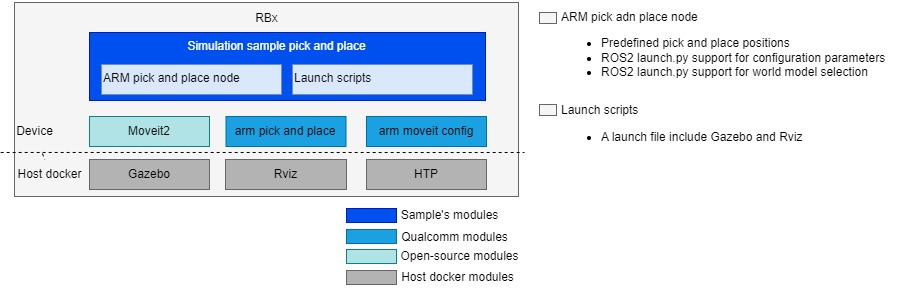
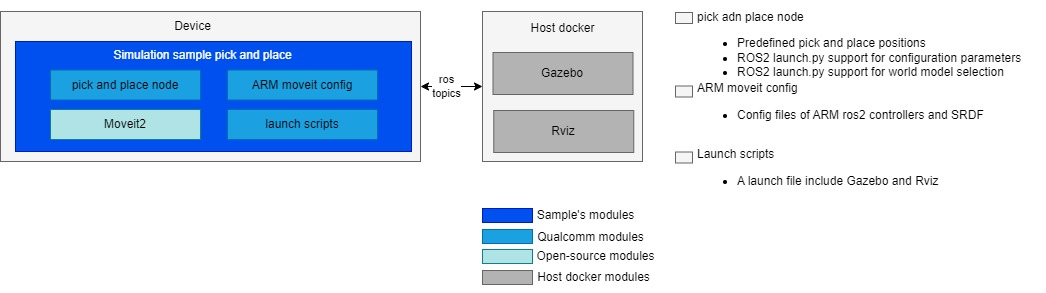
docs: update file architecture

diff --git a/robotics/simulation_sample_pick_and_place/qrb_ros_arm_pick_place/src/qrb_ros_arm_pick_place.cpp b/robotics/simulation_sample_pick_and_place/qrb_ros_arm_pick_place/src/qrb_ros_arm_pick_place.cpp
@@ -128,7 +128,7 @@ int main(int argc, char * argv[])
     return 1;
   }
  
-  // Step 3: Move to target joint angles (from the image)
+  // Step 3: Move to target joint angles
   RCLCPP_INFO(logger, "Step 3: Moving to target joint angles...");
   
   // Get joint names
@@ -138,7 +138,7 @@ int main(int argc, char * argv[])
     RCLCPP_INFO(logger, "  %s", joint_name.c_str());
   }
  
-  // Set target joint angles (from the image)
+  // Set target joint angles
   std::map<std::string, double> target_joint_values;
   target_joint_values["joint1"] = 0.0;    // 0°
   target_joint_values["joint2"] = -46.0;  // -46°
@@ -214,17 +214,17 @@ int main(int argc, char * argv[])
     return 1;
   }
 
-  // Step 5: Move to new target joint angles (from the new image)
+  // Step 5: Move to new target joint angles
   RCLCPP_INFO(logger, "Step 5: Moving to new target joint angles...");
 
-  // Set new target joint angles (from the new image)
+  // Set new target joint angles
   std::map<std::string, double> raise_joint_values;
-  raise_joint_values["joint1"] = -22.0;  // -31°
-  raise_joint_values["joint2"] = -37.0;  // -42°
-  raise_joint_values["joint3"] = -48.0;  // -59°
-  raise_joint_values["joint4"] = 0.0;    // 0°
-  raise_joint_values["joint5"] = 0.0;   // -2°
-  raise_joint_values["joint6"] = 0.0;    // 0°
+  raise_joint_values["joint1"] = -22.0; 
+  raise_joint_values["joint2"] = -37.0; 
+  raise_joint_values["joint3"] = -48.0; 
+  raise_joint_values["joint4"] = 0.0;  
+  raise_joint_values["joint5"] = 0.0; 
+  raise_joint_values["joint6"] = 0.0; 
 
   // Convert degrees to radians
   for (auto& [joint_name, angle_deg] : raise_joint_values) {
@@ -252,17 +252,17 @@ int main(int argc, char * argv[])
     return 1;
   }
   
-  // Step 6: Move to new target joint angles (from the new image)
+  // Step 6: Move to new target joint angles
   RCLCPP_INFO(logger, "Step 6: Moving to new target joint angles...");
   
-  // Set new target joint angles (from the new image)
+  // Set new target joint angles
   std::map<std::string, double> new_target_joint_values;
-  new_target_joint_values["joint1"] = -31.0;  // -31°
-  new_target_joint_values["joint2"] = -42.0;  // -42°
-  new_target_joint_values["joint3"] = -59.0;  // -59°
-  new_target_joint_values["joint4"] = 0.0;    // 0°
-  new_target_joint_values["joint5"] = 0.0;   // -2°
-  new_target_joint_values["joint6"] = 0.0;    // 0°
+  new_target_joint_values["joint1"] = -31.0; 
+  new_target_joint_values["joint2"] = -42.0; 
+  new_target_joint_values["joint3"] = -59.0; 
+  new_target_joint_values["joint4"] = 0.0; 
+  new_target_joint_values["joint5"] = 0.0;  
+  new_target_joint_values["joint6"] = 0.0; 
  
   // Convert degrees to radians
   for (auto& [joint_name, angle_deg] : new_target_joint_values) {
@@ -332,16 +332,16 @@ int main(int argc, char * argv[])
   }
  
  // Step 8: Move to new target joint angles (from the new image)
-  RCLCPP_INFO(logger, "Step 5: Moving to new target joint angles...");
+  RCLCPP_INFO(logger, "Step 8: Moving to new target joint angles...");
 
   // Set new target joint angles (from the new image)
   std::map<std::string, double> re_raise_joint_values;
-  re_raise_joint_values["joint1"] = -22.0;  // -31°
-  re_raise_joint_values["joint2"] = -35.0;  // -42°
-  re_raise_joint_values["joint3"] = -52.0;  // -59°
-  re_raise_joint_values["joint4"] = 0.0;    // 0°
-  re_raise_joint_values["joint5"] = 0.0;   // -2°
-  re_raise_joint_values["joint6"] = 0.0;    // 0°
+  re_raise_joint_values["joint1"] = -22.0; 
+  re_raise_joint_values["joint2"] = -35.0; 
+  re_raise_joint_values["joint3"] = -52.0; 
+  re_raise_joint_values["joint4"] = 0.0;
+  re_raise_joint_values["joint5"] = 0.0; 
+  re_raise_joint_values["joint6"] = 0.0;  
 
   // Convert degrees to radians
   for (auto& [joint_name, angle_deg] : re_raise_joint_values) {
@@ -370,7 +370,7 @@ int main(int argc, char * argv[])
   }
  
   // Step 9: Return to ready state
-  RCLCPP_INFO(logger, "Step 7: Returning to ready state...");
+  RCLCPP_INFO(logger, "Step 9: Returning to ready state...");
   arm_group_interface.setNamedTarget("ready");
   
   auto const [return_ready_success, return_ready_plan] = [&arm_group_interface] {

diff --git a/robotics/simulation_sample_pick_and_place/README.md b/robotics/simulation_sample_pick_and_place/README.md
@@ -64,7 +64,7 @@
     <td>Qualcomm Dragonwing™ RB3 Gen2</td>
     <td>
       <a href="https://www.qualcomm.com/products/internet-of-things/industrial-processors/rb3-series/rb3-gen2">
-        <img src="https://s7d1.scene7.com/is/image/dmqualcommprod/dragonwing-RB3-Gen2?$QC_Responsive$&fmt=png-alpha" width="160">
+        <img src="https://s7d1.scene7.com/is/image/dmqualcommprod/rb3-gen2-carousel?fmt=webp-alpha&qlt=85" width="160">
       </a>
     </td>
   </tr>
@@ -93,7 +93,7 @@ ros2 launch qrb_ros_sim_gazebo gazebo_rml_63_gripper.launch.py
 Click play button in Gazebo after rendered the world environment, and then use the following command to launch Rviz. 
 
 ```bash
-ros2 launch qrb_ros_arm_moveit_config demo.launch.py &
+ros2 launch qrb_ros_arm_moveit_config demo.launch.py
 ```
 Make sure that after you started Gazebo and Rviz in the host Docker, you can select arm predefined state `ready` and `home` in Rviz to start the arm motion.
 
